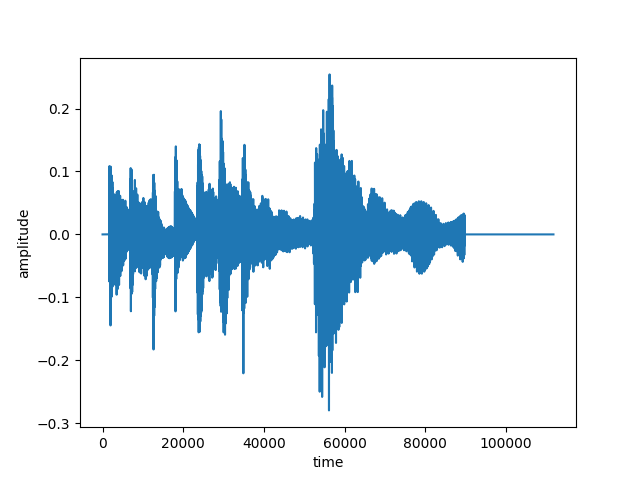
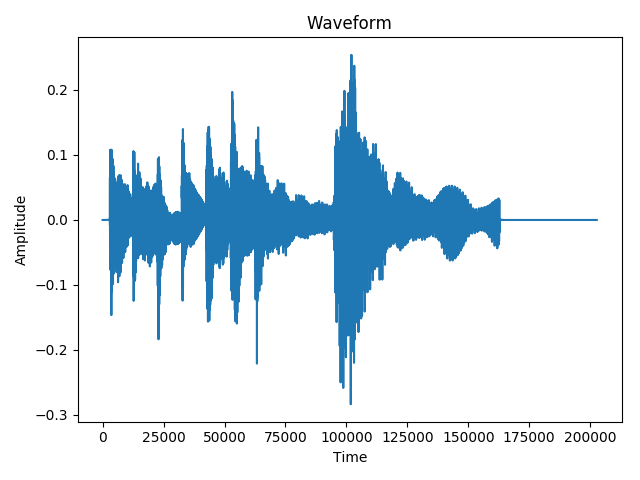
Added zero crossings and both graphs.

diff --git a/guitartab/templates/index.html b/guitartab/templates/index.html
@@ -15,7 +15,7 @@
 
     {% else: %}
 
-      <h1>You uploaded an audio file!</h1>
+      <img src='static/plots/audio.png'>
       <img src='static/plots/spectrogram.png'>
       
       <br>

diff --git a/guitartab/plot.py b/guitartab/plot.py
@@ -2,10 +2,20 @@ import librosa.display
 import numpy as np
 import matplotlib.pylab as plt
 
+def plot_waveform(vector):
+  plt.figure()
+  plt.plot(vector)
+  plt.title('Waveform')
+  plt.xlabel('Time')
+  plt.ylabel('Amplitude')
+  plt.tight_layout()
+  plt.savefig('static/plots/' + 'audio.png')
+
 def plot_spectrogram(stft_output, xlabel='Time', ylabel='Hz'):
-    librosa.display.specshow(librosa.amplitude_to_db(stft_output, 
-      ref=np.max), y_axis='log', x_axis='time')
-    plt.title('Power Spectrogram')
-    plt.colorbar(format='%+2.0f dB')
-    plt.tight_layout()
-    plt.savefig('static/plots/' + 'spectrogram.png')
+  plt.figure()
+  librosa.display.specshow(librosa.amplitude_to_db(stft_output, 
+    ref=np.max), y_axis='log', x_axis='time')
+  plt.title('Power Spectrogram')
+  plt.colorbar(format='%+2.0f dB')
+  plt.tight_layout()
+  plt.savefig('static/plots/' + 'spectrogram.png')

diff --git a/guitartab/mir.py b/guitartab/mir.py
@@ -1,9 +1,24 @@
 import librosa
 import plot as plt
+from numpy import mean, diff
+from matplotlib.mlab import find
 
 def save_plot(filename):
-  y, sr = librosa.load(filename, sr=16000)
+  y, sr = librosa.load(filename, sr=40000)
   
   D = librosa.stft(y)
 
+  onset_frames = librosa.onset.onset_detect(y=y, sr=sr)
+
+  print("ONSET:")
+  print(librosa.frames_to_time(onset_frames, sr=sr))
+
+  print(freq_from_crossings(y, 40000))
+
+  plt.plot_waveform(y)
   plt.plot_spectrogram(D)
+
+def zero_crossings(audio, sr):
+  indices = find((audio[1:] >= 0) & (audio[:-1] < 0))
+  crossings = [i - audio[i] / (audio[i+1] - audio[i]) for i in indices]
+  return sr / mean(diff(crossings))

diff --git a/guitartab/app.py b/guitartab/app.py
@@ -30,8 +30,8 @@ def index():
       flash('No selected file')
       return redirect(request.url)
     if file and allowed_file(file.filename):
-      plot_filepath = handle_file(file)
-    return render_template('index.html', request="POST", filepath=plot_filepath)
+      handle_file(file)
+    return render_template('index.html', request="POST")
 
 def handle_file(file):
   filename = secure_filename(file.filename)
@@ -39,8 +39,6 @@ def handle_file(file):
   file.save(filepath)
   mir.save_plot(filepath)
   os.remove(filepath)
-  plot_filepath = PLOT_FOLDER + 'audio.png'
-  return plot_filepath
 
 if __name__ == "__main__":
   app.run()
